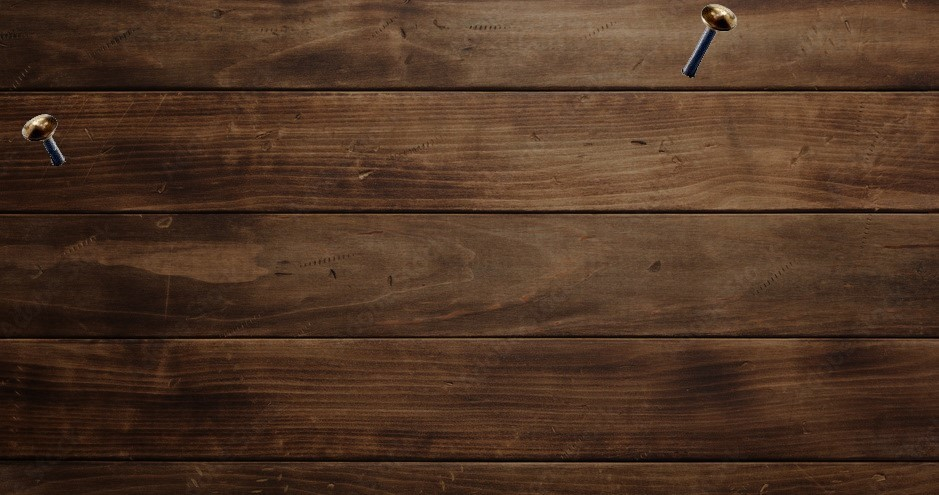
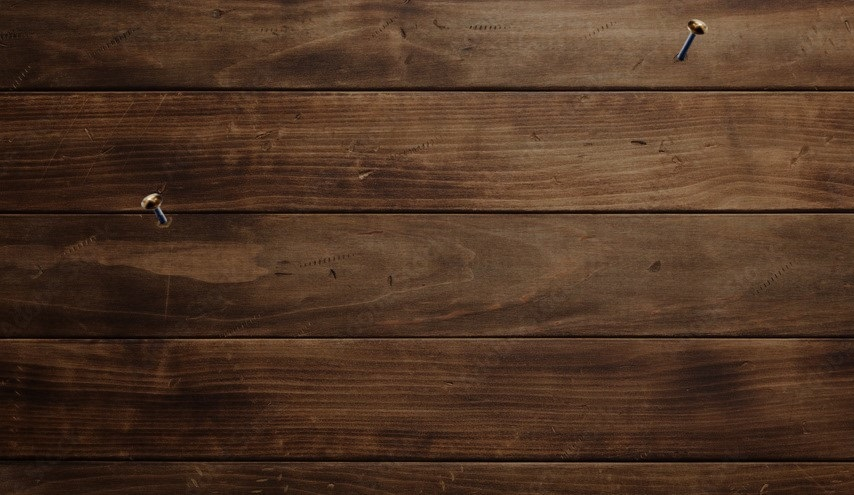
Upgrade registration and login page scss and wooden_wall_with_nails picture.

diff --git a/src/app/pages/registration/registration.component.html b/src/app/pages/registration/registration.component.html
@@ -1,48 +1,49 @@
 <span class="loading-spinner" *ngIf="loginLoading"><mat-spinner color="accent"></mat-spinner></span>
-<div class="registration_component">
+<div class="h-[85vh] m-0 m-auto plexi-layer">
     <div class="div-flex">
-        <mat-card fxLayout="column" fxLayoutGap="30px">
+        <mat-card class="w-[50%] mat-card-background" fxLayout="column" fxLayoutGap="30px">
             <mat-card-header fxLayoutAlign="center">
                 <span class="mat-card-title"><mat-card-title>Regisztráció</mat-card-title></span> 
              </mat-card-header>
              <mat-card-content>
                 <form [formGroup]="usersForm" (ngSubmit)="registration()">
                     <mat-form-field>
-                        <mat-label for="email">Email:</mat-label>
+                        <mat-label class="label" for="email">Email:</mat-label>
                         <input matInput type="text" formControlName="email">
                     </mat-form-field>
                     <mat-form-field>
-                        <mat-label for="username">Felhasználónév:</mat-label>
+                        <mat-label class="label" for="username">Felhasználónév:</mat-label>
                         <input matInput type="text" formControlName="username">
                     </mat-form-field>
                     <mat-form-field>
-                        <mat-label for="password">Jelszó:</mat-label>
+                        <mat-label class="label" for="password">Jelszó:</mat-label>
                         <input matInput type="password" formControlName="password">
                     </mat-form-field>
                     <mat-form-field>
-                        <mat-label for="rePassword">Jelszó ismét:</mat-label>
+                        <mat-label class="label" for="rePassword">Jelszó ismét:</mat-label>
                         <input matInput type="password" formControlName="rePassword">
                     </mat-form-field>
                     <div formGroupName="name" class="nameForm">
                         <mat-form-field>
-                            <mat-label for="lastname">Vezetéknév:</mat-label>
+                            <mat-label class="label" for="lastname">Vezetéknév:</mat-label>
                             <input matInput type="text" formControlName="lastname">
                         </mat-form-field>
                         <mat-form-field>
-                            <mat-label for="firstname">Keresztnév:</mat-label>
+                            <mat-label class="label" for="firstname">Keresztnév:</mat-label>
                             <input matInput type="text" formControlName="firstname">
                         </mat-form-field>
                     </div>
-                    <div class="button-container">
-                        <span class="buttons"><button mat-raised-button color="accent"
-                                type="submit">Regisztráció</button>
+                    <span class="flex justify-center">
+                        <span class="p-[10px]">
+                            <button class="signup-button" mat-raised-button type="submit">Regisztráció
+                            </button>
                         </span>
-                        <span class="pl-[5px] pt-[20px]">Már van fiókod?
-                            <a class="underline hover:text-cyan-400 hover:text-[18px]" [routerLink]="'/login'">
+                        <span class="pl-[5px] pt-[25px] label">Már van fiókod?
+                            <a class="underline text-white text-[16px] hover:text-amber-600 hover:text-[17px]" [routerLink]="'/login'">
                             Jelentkezz be!
                             </a>
                         </span>
-                    </div>
+                    </span>
                 </form>
             </mat-card-content>
         </mat-card>

diff --git a/src/app/pages/registration/registration.component.scss b/src/app/pages/registration/registration.component.scss
@@ -1,28 +1,27 @@
 .div-flex {
     display: flex;
-    flex-direction: column;
     justify-content: center;
     text-align: center;
     align-items: center;
-    height: 100%;
-    background-color: #696969;
+    height: 70vh;
+    padding-top: 10%;
 }
 
-.registration_component {
-    height: 100vh;
-    margin: 0 auto;
+.plexi-layer {
+    background-color: rgba(0, 0, 0, 0.5);
+    z-index: 1;
 }
 
-mat-card {
-    width: 50%;
+.mat-card-background {
+    background-image: url('/../assets/img/wooden_wall_with_nails.jpg');
+    background-size: cover;
 }
 
 .mat-card-title {
-    font-size: 150%;
-}
-
-form div {
-    padding: 5px;
+    margin-top: 5%;
+    font-size: 170%;
+    font-family: 'LoggerWooden';
+    color:burlywood;
 }
 
 form {
@@ -36,44 +35,40 @@ form {
     display: inline-grid;
 }
 
-.button-container {
-    display: flex;
-    justify-content: center;
+.signup-button {
+    color: burlywood; 
+    background-image: url('/../assets/img/wooden_wall_with_nails.jpg');
+    width: 150px;
+    height: 50px;
+    font-size: 18px;
+    font-family:cursive;
 }
 
-.buttons {
-    padding: 10px;
-}
-
-button:hover {
+.signup-button:hover {
     transition: transform 0.75s;
     transform: scale(1.1);
 }
 
-button {
-    width: 130px;
+::ng-deep .mat-focused .mat-form-field-ripple {
+    background-color: burlywood !important;
 }
 
-// aláhúzás a kommentnél
-::ng-deep .mat-focused .mat-form-field-ripple  {
-    background-color: grey !important;
-}
-
-mat-label {
-    color: white;
+.label {
+    font-family:cursive;
+    color: burlywood;
 }
 
 // kurzus szín
 input {
-    caret-color: #14d8e6;
+    caret-color: burlywood;
 }
 
 @media (max-width: 900px) {
-    mat-card {
+    .mat-card-background {
         width: 70%;
     }
 
-    button:hover {
+    .signup-button:hover {
         transition: transform 0.3s;
         transform: scale(1.05);
     }
@@ -86,16 +81,7 @@ input {
         display: block;
     }
 
-    .buttons {
-        padding: 5px;
-    }
-
-    button {
+    .signup-button {
         width: 110px;
-    }
-
-    .button-container {
-        display: flex;
-        justify-content: flex-start;
     }
 }

diff --git a/src/app/pages/login/login.component.scss b/src/app/pages/login/login.component.scss
@@ -9,7 +9,12 @@
 .plexi-layer {
     background-color: rgba(0, 0, 0, 0.5);
     z-index: 1;
-  }
+}
+
+.mat-card-background {
+    background-image: url('/../assets/img/wooden_wall_with_nails.jpg');
+    background-size: cover;
+}
 
 .mat-card-title {
     margin-top: 5%;
@@ -55,11 +60,11 @@ input {
 
 
 @media (max-width: 900px) {
-    mat-card {
+    .mat-card-background {
         width: 70%;
     }
 
-    button:hover {
+    .login-button:hover {
         transition: transform 0.3s;
         transform: scale(1.05);
     }
@@ -72,17 +77,8 @@ input {
         display: block;
     }
 
-    .buttons {
-        padding: 5px;
-    }
-
-    button {
+    .login-button {
         width: 110px;
-    }
-
-    .button-container {
-        display: flex;
-        justify-content: flex-start;
     }
 
 }

diff --git a/src/app/pages/login/login.component.html b/src/app/pages/login/login.component.html
@@ -1,7 +1,7 @@
 <span class="loading-spinner" *ngIf="loginLoading"><mat-spinner color="accent"></mat-spinner></span>
 <div class="h-[85vh] m-0 m-auto plexi-layer">
     <div class="div-flex">
-        <mat-card class="w-[50%]" fxLayout="column" fxLayoutGap="30px" style="background-image: url('/../assets/img/wooden_wall_with_nails.jpg')">
+        <mat-card class="w-[50%] mat-card-background" fxLayout="column" fxLayoutGap="30px">
             <mat-card-header fxLayoutAlign="center">
                 <span class="mat-card-title"><mat-card-title>Bejelentkezés</mat-card-title></span>
             </mat-card-header>
